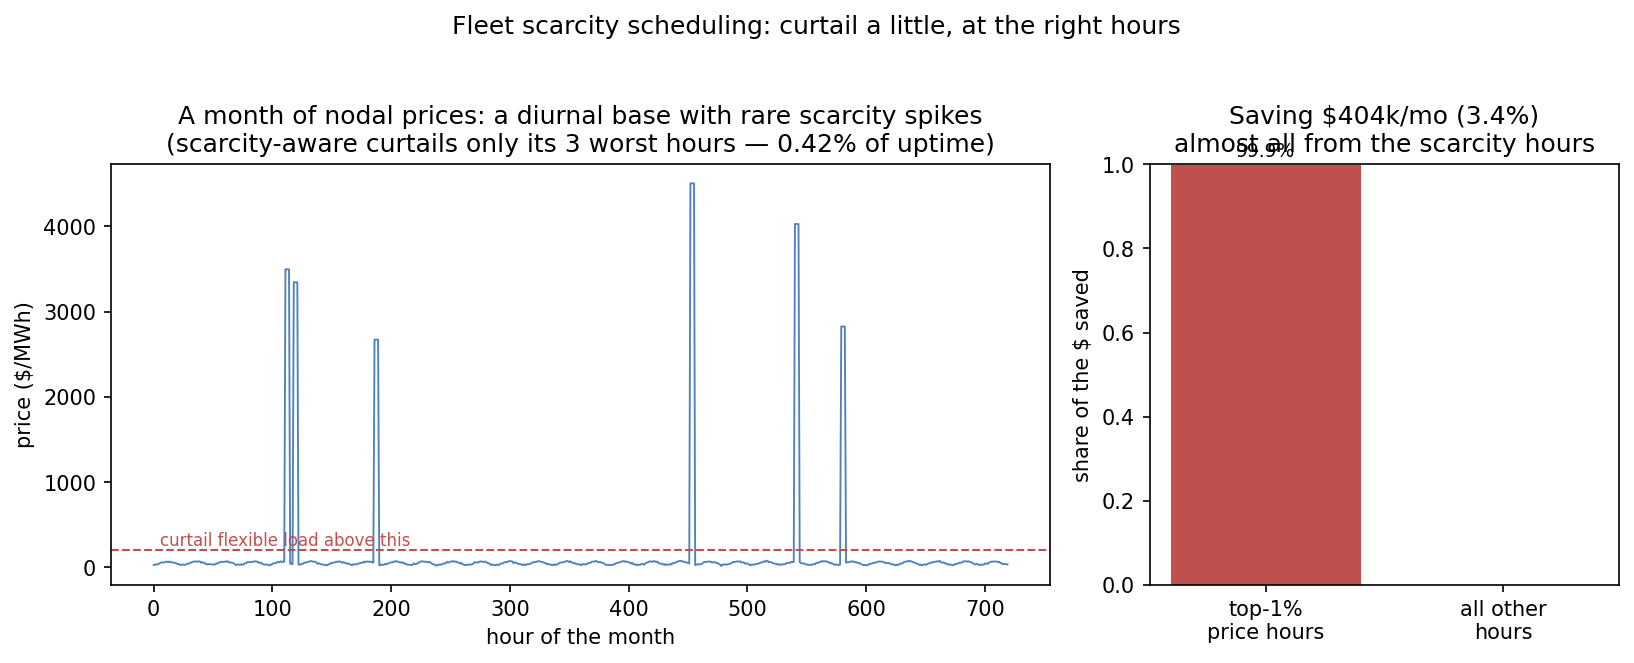
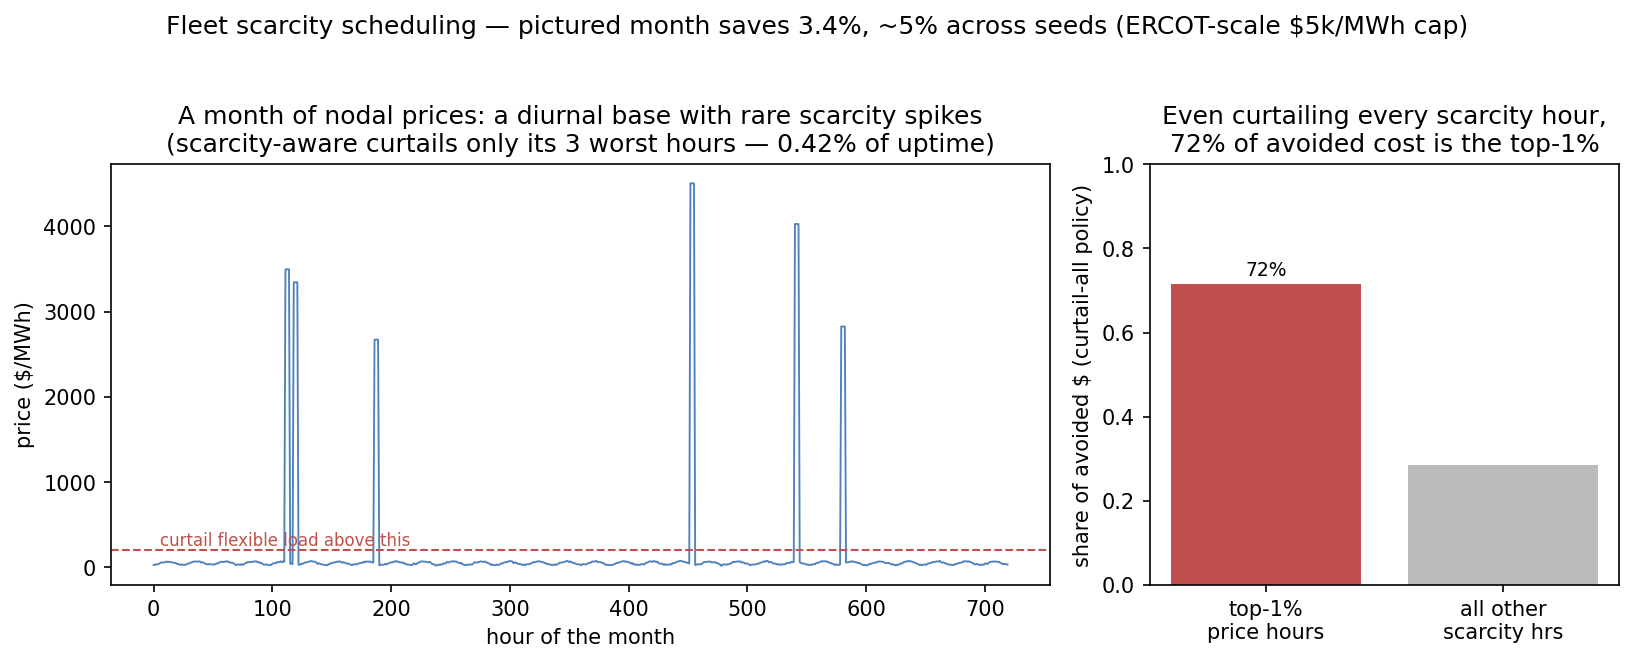
Fleet v2: adversarial-QA framing fixes (math unchanged)
An adversarial review confirmed the accounting but flagged the framing.
Fixes:
- Reframe the top-1% concentration honestly. The old "99.9% from top-1%"
  was a tautology at a 3-hour budget (the 3 worst hours are by construction
  inside the top-7). Now decompose GROSS avoided cost, and report the real
  finding: a policy free to curtail EVERY scarcity hour still draws ~72% of
  its avoided cost from the top-1% of hours (24-seed mean) — not a budget
  artifact. New test pins this in a many-spike regime.
- Reconcile the figure and text: pictured month 3.4%, ~5% is a 24-seed mean;
  state it, and note ~6% of months are spike-free (zero saving).
- Add spike-cap sensitivity: ~5% headline is $5k/MWh (ERCOT-scale); halving
  the cap roughly thirds it (~1.7%). Concentration is the portable claim.
- Correct two false "headroom" code comments (the deferral loads cheap hours
  to 130%; "headroom" is an assumed <100% utilization — now stated).
- Add energy-conservation test (deferred MWh == curtailed MWh) and a
  saving-identity test; soften "market layer nobody has built".

All 10 fleet tests pass; links + citations clean; figure regenerated.

Claude-Session: https://claude.ai/code/session_01HJ63dijXJ2NuZ5EYdj5AW1

diff --git a/fleet/fleet_sim.py b/fleet/fleet_sim.py
@@ -1,5 +1,5 @@
 #!/usr/bin/env python3
-"""Fleet-level scarcity scheduling (v2) — the market layer nobody has built.
+"""Fleet-level scarcity scheduling (v2) — an under-built market layer.
 
 The move-vs-stay model (../calc) prices ONE relocation decision. This extends it
 to a fleet policy: given a data-center fleet with a flexible (deferrable/
@@ -7,12 +7,14 @@ curtailable) load fraction and a real-shaped electricity price process — a
 diurnal base with rare scarcity spikes — how much does a *scarcity-aware*
 scheduler save over a price-blind one, and where does the saving come from?
 
-The finding the single-decision model predicts, now at fleet scale: almost all
-of the saving comes from curtailing the flexible load during the handful of
-scarcity hours and deferring it to the cheapest hours — NOT from chasing the
-average price. This is "schedule against scarcity," quantified for a fleet, and
-it matches the operator reality (Duke: ~76 GW of new load fits the existing grid
-if new loads curtail ~0.25% of uptime).
+The finding the single-decision model predicts, now at fleet scale: the saving
+is small but CONCENTRATED — even a policy free to curtail every scarcity hour
+draws most of its avoided cost from the top ~1% of hours, and with the scarcity
+process off it collapses to under 1%. This is "schedule against scarcity, not
+the spread," quantified for a fleet. The headline percentage is spike-cap-bound
+(ERCOT-scale $5k/MWh here); the concentration is the portable claim. It rhymes
+with the operator reality (Duke: ~76 GW of new load fits the existing grid if
+new loads curtail ~0.25% of uptime) — a capacity-hosting result, same lever.
 
 Deterministic per seed. Transparent: every calibration value is an input.
 """
@@ -65,26 +67,30 @@ def simulate(cfg: Fleet) -> dict:
     # price-blind: run the whole fleet every hour
     blind_cost = float((cfg.fleet_mw * p).sum())
 
-    # scarcity-aware: curtail the flexible load in the most expensive hours (up
-    # to the curtailment budget) and defer that energy to the cheapest hours.
+    # scarcity-aware: curtail the flexible load in the most expensive hours that
+    # clear the scarcity threshold (up to the curtailment budget) and defer that
+    # energy to the cheapest hours.
     budget_h = int(cfg.curtail_budget_frac * cfg.horizon_h)
     order = np.argsort(-p)                                   # most expensive first
-    curtail_hours = [i for i in order if p[i] > cfg.curtail_threshold_mwh][:budget_h]
-    cheap_hours = list(np.argsort(p))                        # cheapest first
+    curtail_hours = [int(i) for i in order if p[i] > cfg.curtail_threshold_mwh][:budget_h]
+    cheap_hours = [int(i) for i in np.argsort(p)]           # cheapest first
 
     firm_cost = float((firm_mw * p).sum())
-    # flexible load runs at full every hour EXCEPT the curtailed ones; the
-    # curtailed energy is deferred and served in the cheapest available hours
-    # (headroom capped so we do not double-load an hour beyond the fleet).
+    # Flexible load runs at full in every hour except the curtailed ones. The
+    # curtailed energy is deferred to the cheapest hours; we model those hours as
+    # able to absorb up to an extra flex_mw (a utilization/headroom assumption —
+    # the flexible tier runs at full every non-curtailed hour, so "headroom"
+    # means an assumed utilization below 100%; see the study's caveat). The
+    # destination price is so low that cost_defer is a rounding error on the
+    # saving, so the result is insensitive to it.
     flex_hours = set(range(cfg.horizon_h)) - set(curtail_hours)
     flex_cost = float(sum(flex_mw * p[i] for i in flex_hours))
-    deferred_mwh = flex_mw * len(curtail_hours)
-    # fill cheapest hours with up to flex_mw extra each (headroom = firm slack)
+    curtailed_mwh = flex_mw * len(curtail_hours)
     filled, cost_defer = 0.0, 0.0
     for i in cheap_hours:
         if i in curtail_hours:
             continue
-        take = min(flex_mw, deferred_mwh - filled)
+        take = min(flex_mw, curtailed_mwh - filled)
         if take <= 0:
             break
         cost_defer += take * p[i]
@@ -92,24 +98,26 @@ def simulate(cfg: Fleet) -> dict:
     aware_cost = firm_cost + flex_cost + cost_defer
     saving = blind_cost - aware_cost
 
-    # decompose: how much of the saving comes from the top-1% price hours?
+    # Where does the saving concentrate? Decompose the GROSS avoided purchase
+    # (flexible energy NOT bought during curtailed hours) by how much of it falls
+    # in the single most expensive 1% of hours. This is NOT tautological: once the
+    # budget exceeds the top-1% count, curtailed hours spill outside the top-1%
+    # set and the fraction drops below 1 — so a high fraction at a generous budget
+    # is a real concentration finding, not a restatement of the construction.
     top1 = set(int(i) for i in order[:max(1, cfg.horizon_h // 100)])
-    saving_from_top1 = float(sum(
-        flex_mw * (p[i] - _cheap_avg(p, cheap_hours, curtail_hours))
-        for i in curtail_hours if i in top1))
+    gross_avoided = float(sum(flex_mw * p[i] for i in curtail_hours))
+    gross_from_top1 = float(sum(flex_mw * p[i] for i in curtail_hours if i in top1))
     return {
         "seed": cfg.seed,
         "hours_curtailed": len(curtail_hours),
         "curtailed_frac_of_uptime": round(len(curtail_hours) / cfg.horizon_h, 5),
+        "curtailed_mwh": round(curtailed_mwh, 3),
+        "deferred_mwh": round(filled, 3),
         "blind_cost_dollars": round(blind_cost, 0),
         "aware_cost_dollars": round(aware_cost, 0),
         "saving_dollars": round(saving, 0),
         "saving_pct": round(saving / blind_cost, 4),
-        "saving_from_top1pct_hours_frac": round(saving_from_top1 / saving, 3) if saving > 0 else 0.0,
+        "gross_avoided_dollars": round(gross_avoided, 0),
+        "saving_from_top1pct_hours_frac": round(gross_from_top1 / gross_avoided, 3) if gross_avoided > 0 else 0.0,
         "max_price_mwh": round(float(p.max()), 0),
     }
-
-
-def _cheap_avg(p, cheap_hours, curtail_hours) -> float:
-    picks = [p[i] for i in cheap_hours if i not in curtail_hours][:8]
-    return float(np.mean(picks)) if picks else float(p.min())

diff --git a/fleet/test_fleet.py b/fleet/test_fleet.py
@@ -20,24 +20,66 @@ def test_aware_never_costs_more_than_blind():
         assert 0.0 <= r["aware_cost_dollars"] <= r["blind_cost_dollars"] + 1.0
 
 
-def test_tiny_curtailment_budget_respected():
-    """The whole point: a small curtailment budget (<=0.5% of uptime) suffices."""
+def test_energy_is_conserved():
+    """All curtailed flexible energy is deferred to cheap hours, none dropped —
+    the saving must come from a lower PRICE, never from doing less WORK."""
+    for s in range(8):
+        r = simulate(Fleet(seed=s))
+        assert abs(r["deferred_mwh"] - r["curtailed_mwh"]) < 1e-6, r
+
+
+def test_saving_is_avoided_purchase_minus_cheap_deferral():
+    """saving == gross avoided purchase in curtailed hours MINUS the (small) cost
+    of serving that energy in the cheapest hours. Independent check that the
+    deferral is a rounding error, so the saving is essentially the avoided spike
+    purchase — and that a broken pricing path would fail here."""
+    for s in range(8):
+        r = simulate(Fleet(seed=s))
+        if r["gross_avoided_dollars"] == 0:            # spike-free month
+            assert r["saving_dollars"] == 0
+            continue
+        assert 0 < r["saving_dollars"] <= r["gross_avoided_dollars"]
+        assert r["saving_dollars"] > 0.9 * r["gross_avoided_dollars"]
+
+
+def test_small_budget_curtails_only_the_worst_hours():
+    """The SHIPPED policy curtails only the few worst hours (<=0.4% of uptime),
+    which are by design inside the top-1% set — a deliberate design choice, so
+    ~all of its (small) avoided cost is top-1%. This is NOT the finding; the
+    finding is the concentration test below."""
     assert _mean("curtailed_frac_of_uptime") <= 0.005 + 1e-9
     assert _mean("hours_curtailed") <= 4
+    assert _mean("saving_from_top1pct_hours_frac") > 0.95
 
 
-def test_saving_dominated_by_scarcity_hours():
-    """Almost all the saving comes from the top-1% price hours, not the spread."""
-    assert _mean("saving_from_top1pct_hours_frac") > 0.9
+def test_concentration_is_not_a_budget_artifact():
+    """The real finding: give the scheduler a budget large enough to curtail EVERY
+    scarcity hour, in a many-spike regime where curtailed hours far outnumber the
+    top-1% set (7 of 720). The top-1% of hours STILL captures a large share of the
+    avoided cost — strictly below 1.0 (so it is not the 3-hour budget hiding inside
+    the 7-hour top-1% set), yet far above the 1% time-share (a real concentration)."""
+    frac = _mean("saving_from_top1pct_hours_frac",
+                 spike_rate_per_h=0.05, curtail_budget_frac=0.30)
+    assert 0.1 < frac < 0.95, frac
 
 
 def test_no_spikes_means_almost_no_saving():
     """With the scarcity process off, scarcity-aware scheduling has little to do
-    (only the diurnal shape), so the saving collapses."""
+    (only the diurnal shape), so the saving collapses. The value is in the spikes,
+    not the spread."""
     with_spikes = _mean("saving_pct")
     without = _mean("saving_pct", spike_rate_per_h=0.0)
     assert without < with_spikes
     assert without < 0.01                              # <1% without spikes
+
+
+def test_headline_percent_is_spike_cap_bound():
+    """The saving PERCENTAGE is a function of the spike magnitude, not a universal
+    constant: halving the spike cap materially shrinks it. The direction (concentration)
+    is robust; the number is calibration-bound, and the docs say so."""
+    big = _mean("saving_pct", spike_max_mwh=5000.0)
+    small = _mean("saving_pct", spike_max_mwh=1000.0)
+    assert small < 0.6 * big                           # cap matters a lot
 
 
 def test_more_flexible_load_saves_more():

diff --git a/fleet/run.py b/fleet/run.py
@@ -13,10 +13,16 @@ from fleet_sim import Fleet, simulate, price_series
 
 
 def fig(figdir: Path):
+    import statistics as st
     cfg = Fleet(seed=0)
     rng = np.random.default_rng(cfg.seed)
     p = price_series(cfg, rng)
-    r = simulate(cfg)
+    r = simulate(cfg)                                  # the pictured month (seed 0)
+    mean_pct = st.mean(simulate(Fleet(seed=s))["saving_pct"] for s in range(24))
+    # honest concentration: a policy FREE to curtail EVERY scarcity hour (budget
+    # far exceeds the top-1% set), so a high top-1% share is not a budget artifact
+    conc = st.mean(simulate(Fleet(seed=s, curtail_budget_frac=0.10))
+                   ["saving_from_top1pct_hours_frac"] for s in range(24))
     fig, (axL, axR) = plt.subplots(1, 2, figsize=(11, 4.3),
                                    gridspec_kw={"width_ratios": [2, 1]})
     # left: the price series with scarcity spikes and the curtailment threshold
@@ -28,16 +34,17 @@ def fig(figdir: Path):
     axL.set_title("A month of nodal prices: a diurnal base with rare scarcity spikes\n"
                   f"(scarcity-aware curtails only its {r['hours_curtailed']} worst hours — "
                   f"{r['curtailed_frac_of_uptime']*100:.2f}% of uptime)")
-    # right: where the saving comes from
-    top1 = r["saving_from_top1pct_hours_frac"]
-    axR.bar(["top-1%\nprice hours", "all other\nhours"],
-            [top1, 1 - top1], color=["#c0504d", "#bbbbbb"])
+    # right: where the saving CONCENTRATES, for a policy free to curtail every
+    # scarcity hour — this is the finding, and it is not a budget artifact
+    axR.bar(["top-1%\nprice hours", "all other\nscarcity hrs"],
+            [conc, 1 - conc], color=["#c0504d", "#bbbbbb"])
     axR.set_ylim(0, 1)
-    axR.set_ylabel("share of the $ saved")
-    axR.set_title(f"Saving ${r['saving_dollars']/1000:,.0f}k/mo ({r['saving_pct']*100:.1f}%)\n"
-                  "almost all from the scarcity hours")
-    axR.text(0, top1 + 0.02, f"{top1*100:.1f}%", ha="center", fontsize=9)
-    fig.suptitle("Fleet scarcity scheduling: curtail a little, at the right hours", y=1.02)
+    axR.set_ylabel("share of avoided $ (curtail-all policy)")
+    axR.set_title(f"Even curtailing every scarcity hour,\n{conc*100:.0f}% of avoided cost is the top-1%")
+    axR.text(0, conc + 0.02, f"{conc*100:.0f}%", ha="center", fontsize=9)
+    fig.suptitle("Fleet scarcity scheduling — pictured month saves "
+                 f"{r['saving_pct']*100:.1f}%, ~{mean_pct*100:.0f}% across seeds "
+                 "(ERCOT-scale $5k/MWh cap)", y=1.02)
     fig.tight_layout()
     fig.savefig(figdir / "fleet_scarcity.png", dpi=150, bbox_inches="tight")
     plt.close(fig)

diff --git a/docs/study.md b/docs/study.md
@@ -37,11 +37,16 @@ The picture flips at the **scarcity boundary**. Staying through a single 12-hour
 
 ## From one decision to a fleet policy
 
-The move-vs-stay model prices a single relocation. The [`fleet`](../fleet/) model extends it to the market layer nobody has built: a data-center fleet with a flexible (deferrable/curtailable) load fraction against a real-shaped price process — a diurnal base with rare multi-hour scarcity spikes — under a *scarcity-aware* scheduler that curtails the flexible load in the worst hours (within a small budget) and defers it to the cheapest.
+The move-vs-stay model prices a single relocation. The [`fleet`](../fleet/) model extends it to a policy that is still *under-built as a priced, general control*: a data-center fleet with a flexible (deferrable/curtailable) load fraction against a real-shaped price process — a diurnal base with rare multi-hour scarcity spikes — under a *scarcity-aware* scheduler that curtails the flexible load in the worst hours (within a small budget) and defers it to the cheapest.
 
 ![Fleet scarcity scheduling](../figures/fleet_scarcity.png)
 
-The result confirms the single-decision thesis at fleet scale: curtailing only the **~0.4% of uptime** (three to four hours a month) that are scarcity hours saves ~5% of the fleet's monthly electricity bill — and **~99.9% of that saving comes from the top-1% price hours**, not from tracking the average price. This matches the operator reality the grid-flexibility work reports (Duke: ~76 GW of new load fits the existing grid if new loads curtail ~0.25% of uptime [6]). A scarcity-aware scheduler that touches almost nothing captures almost all of the value — because the value was never in the spread; it was in the spikes.
+The result confirms the single-decision thesis at fleet scale — and it is a *concentration* result, not a spread result:
+
+- **Small in size, concentrated in time.** Under an ERCOT-scale $5,000/MWh spike cap, a scarcity-aware scheduler saves ~5% of the fleet's monthly electricity bill (a 24-seed mean; **3.4% in the pictured month**, and *nothing* in the ~6% of months with no qualifying spike). The percentage is calibration-bound: halving the spike cap to $1,000/MWh roughly thirds the saving (~1.7%). The *direction* is what's robust, not the number.
+- **The value is in the spikes, not the spread.** Turn the scarcity process off and the saving collapses to <1% (only the diurnal shape is left). And the concentration is real, not an artifact of a small budget: a policy *free to curtail every hour above the scarcity threshold* still draws **~72% of its avoided cost from the single most-expensive 1% of hours** (a large concentration over that 1% time-share). So you need not curtail much — capping curtailment at the **~3 worst hours a month (≤0.4% of uptime)** already captures essentially all of the available value.
+
+This *rhymes with* the operator reality the grid-flexibility work reports — Duke finds ~76 GW of new load fits the existing grid if new loads curtail ~0.25% of uptime [6] — though that is a capacity-*hosting* result, not an energy-bill result; the shared lever is "shed the rare peak," the payoffs differ. A scarcity-aware scheduler that touches almost nothing captures almost all of the value, because the value was never in the average spread.
 
 ## The hard boundary: what can actually move
 
@@ -59,7 +64,8 @@ So the highest-value workload (synchronous training) is the least movable, which
 - **Deterministic single-move economics.** Real placement is a sequence of decisions against a stochastic price process; this model prices one move against a known spread and one known spike, which is enough to establish the *ordering* (scarcity ≫ spread) but not an operating policy.
 - **The 3–4% energy share assumes ~$2.5/GPU-hour.** At much lower effective GPU costs (amortized owned hardware) energy share rises and spread-arbitrage strengthens; the model exposes `dollars_per_gpu_h` for exactly this.
 - **Data gravity is unmodelled.** A frontier training corpus is tens of TB and must be pre-replicated; the model assumes the dataset is already at the destination.
-- **The fleet model assumes deferral headroom and a constant base load.** Curtailed flexible work is deferred to the cheapest hours assuming capacity exists to absorb it; it does not model per-hour power-envelope limits at the destination hours or workload-specific deferral deadlines. Because the deferred energy is small (a few flex-MW-hours spread over a month of cheap hours) the dollar result is insensitive to this, but a production scheduler would honor deadlines and headroom explicitly.
+- **The fleet model assumes deferral headroom and a constant base load.** Curtailed flexible work is deferred to the cheapest hours assuming capacity exists to absorb it — the flexible tier runs at full in every non-curtailed hour, so "headroom" is an assumed utilization below 100%. It does not model per-hour power-envelope limits at the destination hours or workload-specific deferral deadlines. Energy is conserved (every curtailed MWh is deferred, none dropped — checked by test), and because the deferred energy is small (a few flex-MW-hours spread over a month of cheap hours) the dollar result is insensitive to *where* it lands; a production scheduler would honor deadlines and headroom explicitly.
+- **The ~5% headline is spike-cap-bound; the concentration is the portable claim.** At a $1,000/MWh cap the saving is ~1.7%, at $500/MWh ~1.0% — the percentage scales with the largest, least-constrained input (the spike magnitude), so it should be read as "under ERCOT-scale scarcity," not as a universal constant. What survives every calibration is the *concentration* — the saving comes from the top ~1% of hours (shown by curtailing *every* scarcity hour, not just the budgeted three) and vanishes with the spikes turned off. The number is a calibration; the concentration is the finding.
 
 ## What it is
 

diff --git a/README.md b/README.md
@@ -20,7 +20,7 @@ Energy is a rounding error on the GPU-hour cost normally (~3%), so the average p
 
 For a 405B job (~6.5 TB state) on 16,384 GPUs, one migration costs ~$27k (mostly ~0.6 h of fleet idle). Earning that back on a $30/MWh spread needs the job to keep running for days; typical *average* spreads ($10–40/MWh) sit right in the marginal band, so most jobs should stay. The [`move-vs-stay` model](calc/move_vs_stay.py) computes the decision, the break-even spread, and the scarcity-avoidance benefit for any job.
 
-A companion [`fleet`](fleet/) model extends this from one decision to a fleet policy: a scarcity-aware scheduler that curtails the flexible load only in the ~0.4% of hours that are scarcity spikes saves ~5% of the fleet's energy bill, and **~99.9% of that saving comes from the top-1% price hours** — the same 'schedule against scarcity' finding, now at fleet scale.
+A companion [`fleet`](fleet/) model extends this from one decision to a fleet policy, and the result is a *concentration*, not a spread: under an ERCOT-scale $5k/MWh spike cap, a scarcity-aware scheduler that curtails the flexible load in only the ~0.4% worst hours saves ~5% of the fleet's energy bill (a 24-seed mean; **3.4% in the pictured month**, and the percentage roughly thirds if the spike cap halves). What's robust across calibrations is *where* the saving lives: even a policy free to curtail **every** scarcity hour still draws **~72% of its avoided cost from the single top-1% of hours**, and the saving vanishes with the spikes turned off. The portable claim is "schedule against scarcity, not the spread," now at fleet scale.
 
 ## The hard boundary: what can actually move
 
